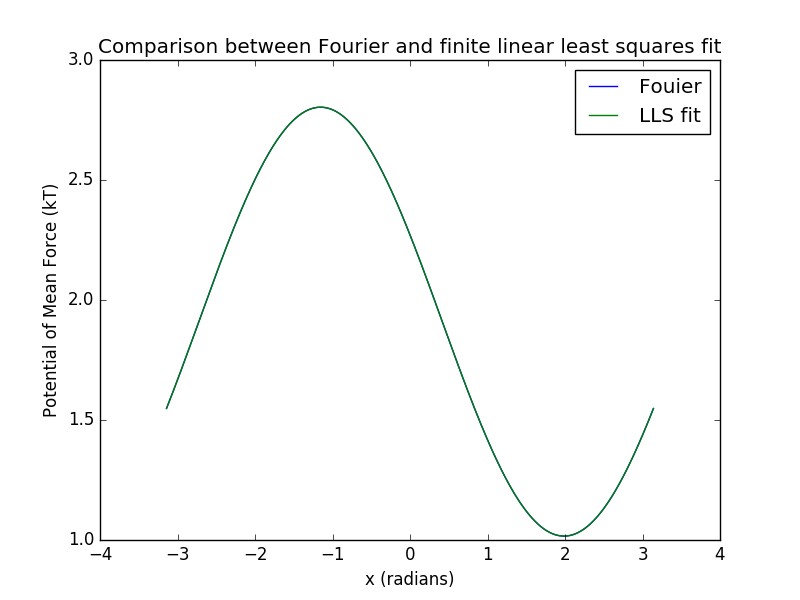
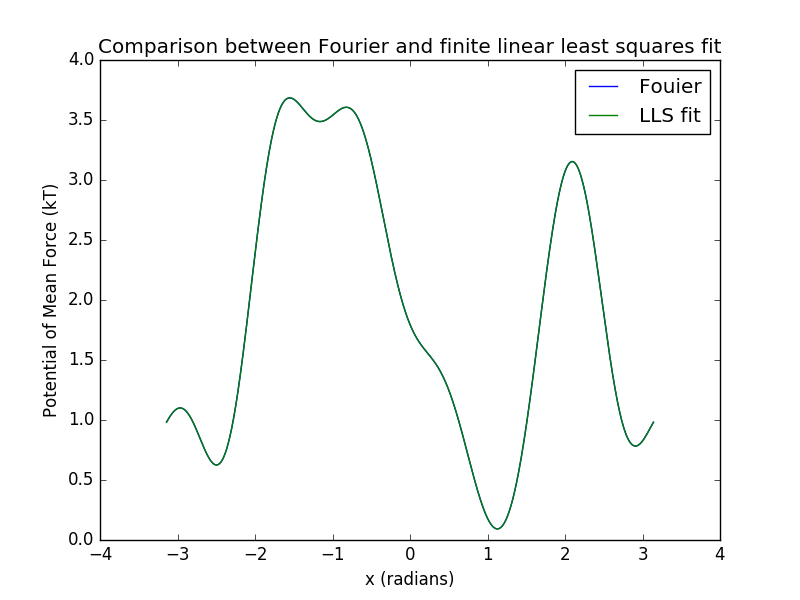
torsion fit check

diff --git a/single-molecule-property-generation/torsion_fitting/fitting_example.py b/single-molecule-property-generation/torsion_fitting/fitting_example.py
@@ -53,7 +53,7 @@ def ft(x, cn, Nh):
    return f.sum()+cn[0]
 
 # generate Fourier series (complex)
-Ns = 1 # needs to be adjusted 
+Ns = 6 # needs to be adjusted 
 cf = np.zeros(Ns+1,dtype=complex)
 for i in range(Ns+1):
     cf[i] = cn(i,pmf)
